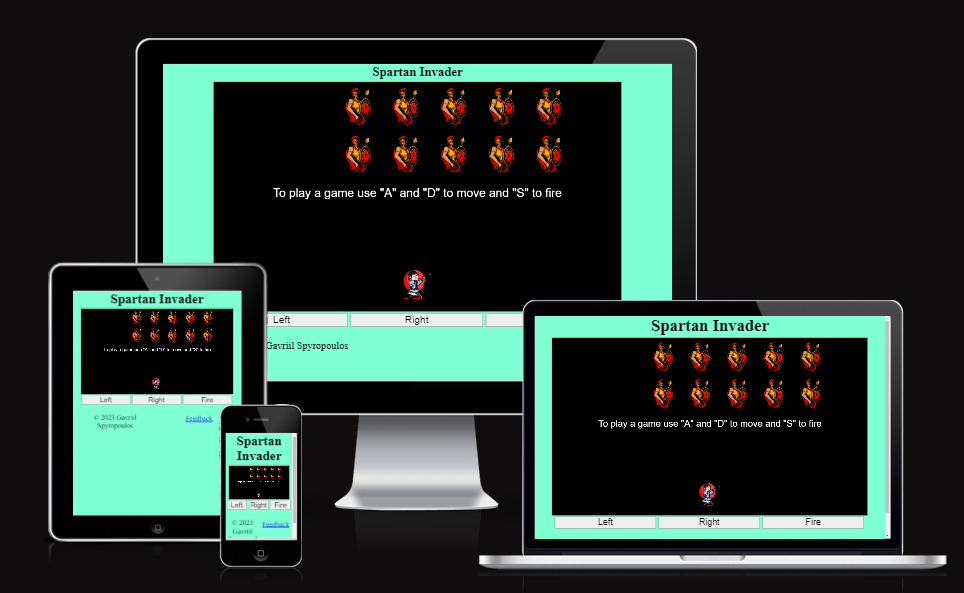
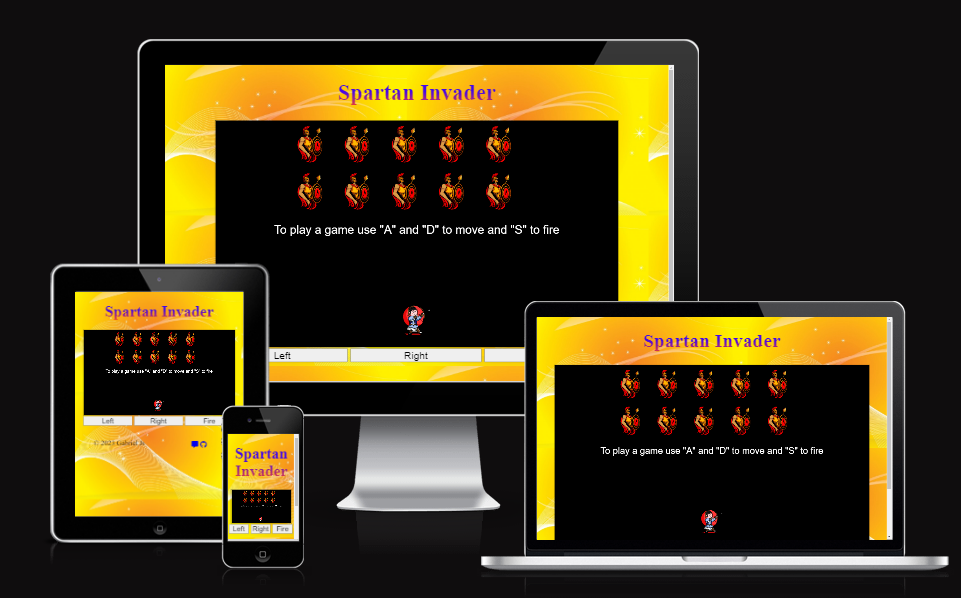
fixing header css

diff --git a/assets/css/style.css b/assets/css/style.css
@@ -2,21 +2,22 @@
 body {
 	text-align: center;
 	justify-content: center;
+	background-color: aquamarine;
 	margin:0;
-	background-image: url("assets/background/main-page-background.jpg");
-}
-.homepage{
-	background-image: url("assets/background/main-page-background.jpg");
 }
 /* Header CSS */
-#headerhome {
+
+header h1 {
 	font-size: 70px;
 	font-weight: 600;
-		background-image: linear-gradient( #4408e9 45%, #e63a3a);
+	background-image: linear-gradient(to left, #e90878 45%, #0be241);
 	color: transparent;
 	background-clip: text;
 	-webkit-background-clip: text;
-} 
+	margin-top: 0px;
+	margin-bottom: 0px;
+    padding-bottom: 10px;
+}
 /* HTML canvas CSS */
 canvas {
 	border: 1px solid black;
@@ -58,23 +59,12 @@ footer {
 	justify-content: space-evenly;
   }
 
-  
 /* feedback form */
 
 
 /*feedback button */
 /* Form code is taken from here https://www.w3schools.com/howto/howto_css_contact_form.asp */
 * {box-sizing: border-box;}
-
-/*header CSS*/
-#headerfeedback {
-    font-size: 70px;
-    font-weight: 600;
-    background-image: linear-gradient( #ad3a94 45%, #5a3ae6);
-    color: transparent;
-    background-clip: text;
-    -webkit-background-clip: text;
-  }  
 /* should be text area */
 input[type=text], select, textarea {
   
@@ -117,7 +107,7 @@ input[type=submit]:hover {
 }
   
 .hfof{
-	font-size: 40px ; 
+	font-size: 70px ; 
 	/* border-style: dotted */
 	margin-top: 0px;
   	margin-bottom: 0px;
